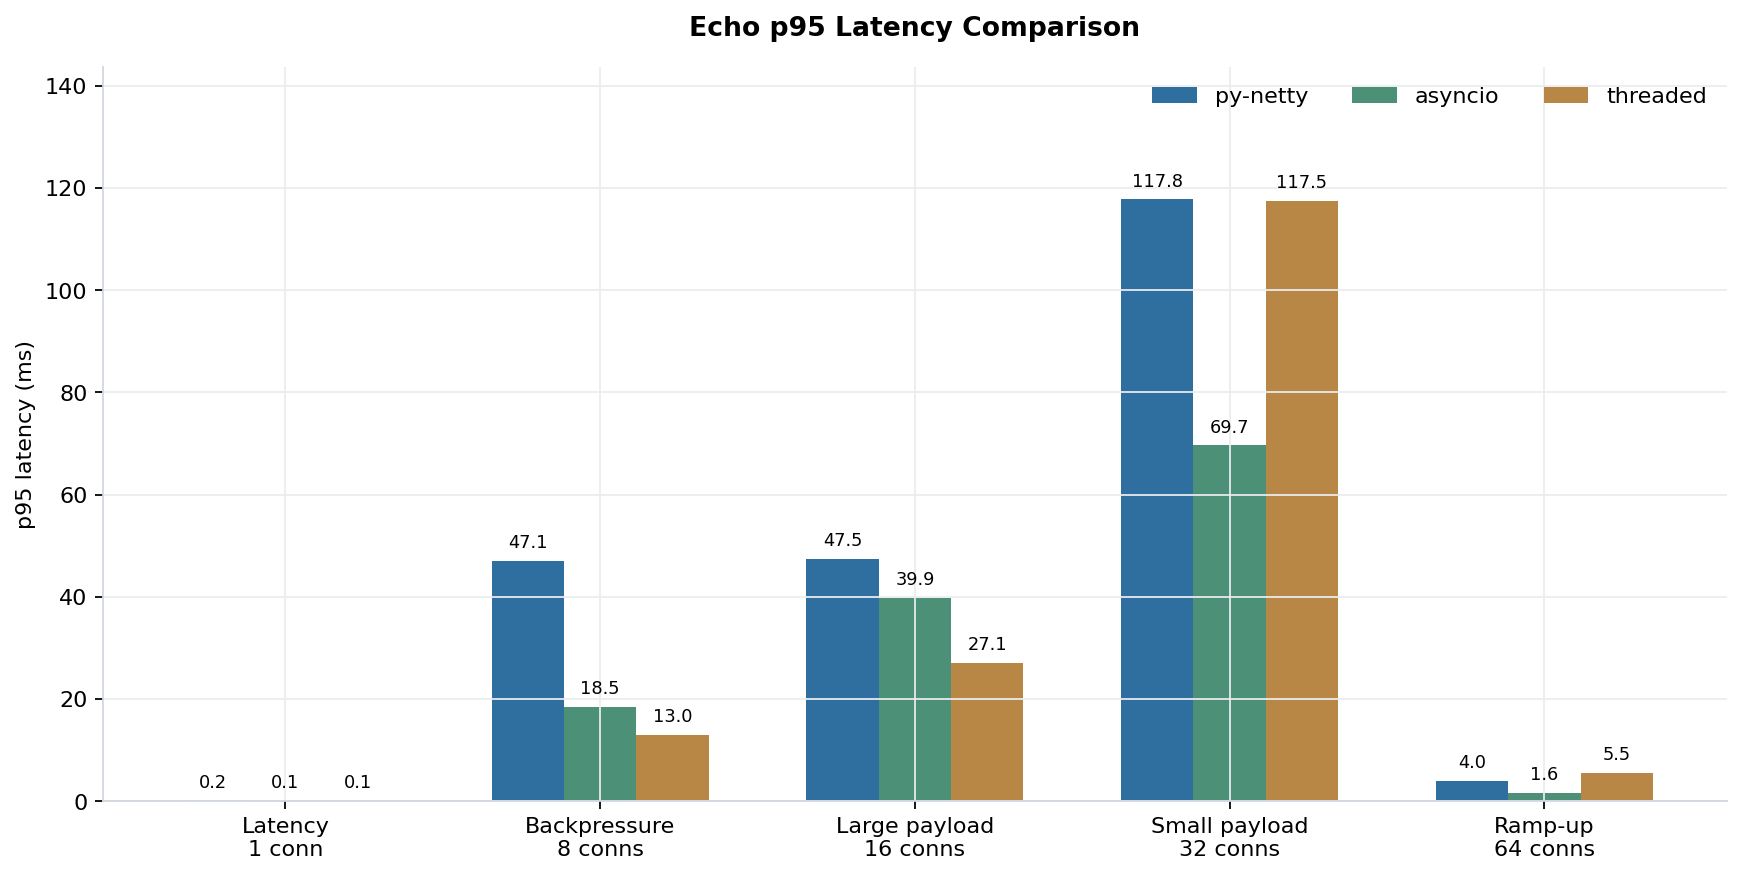
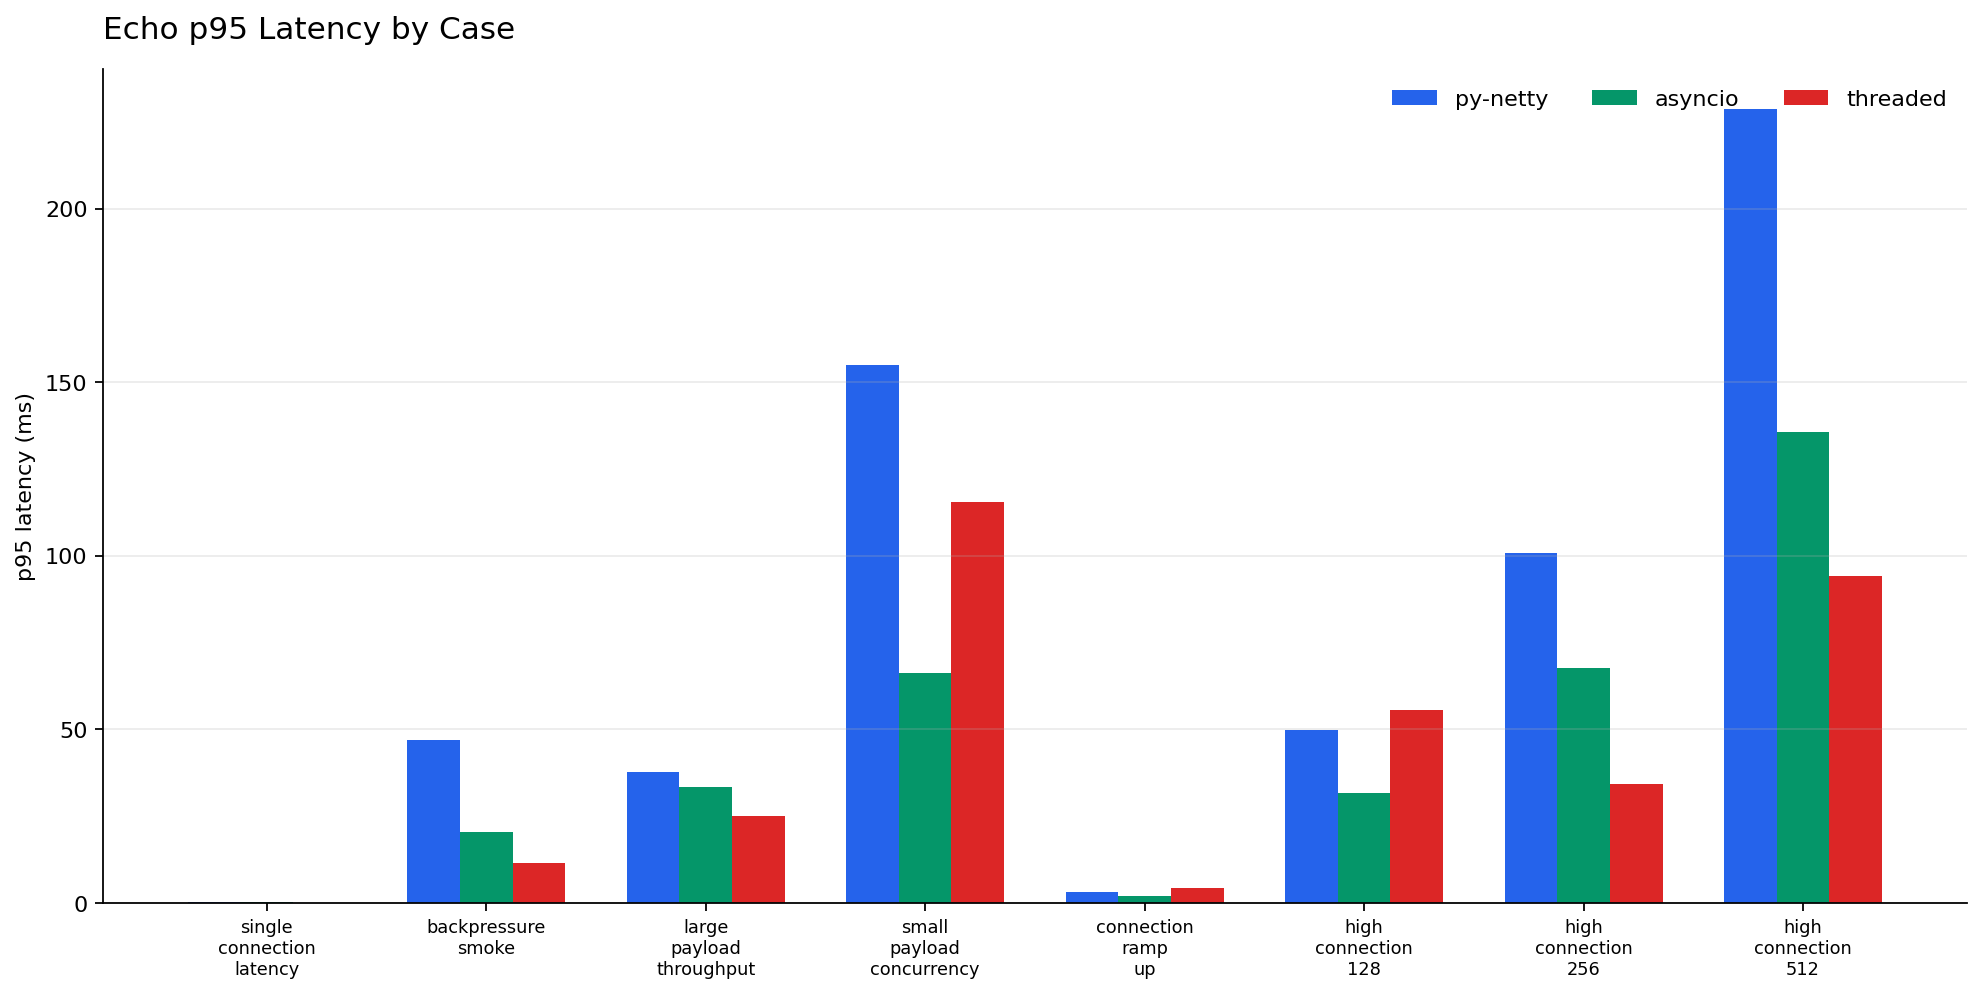
Update benchmark

diff --git a/integration_tests/perf_echo.py b/integration_tests/perf_echo.py
@@ -18,6 +18,9 @@ Usage examples:
     # Run a ramp-up case on an explicit localhost port.
     python integration_tests/perf_echo.py --case connection_ramp_up --port 19080 --connections 128
 
+    # Run higher connection-count cases to find where threaded sockets fall behind.
+    python integration_tests/perf_echo.py --case high_connection_scaling --engine all --timeout 30
+
 Notes:
     The runner starts an in-process localhost echo server for each case and
     engine. Metrics are informational; the process exits non-zero only for
@@ -51,6 +54,7 @@ USAGE_EXAMPLES = """examples:
   python integration_tests/perf_echo.py --case all --engine all
   python integration_tests/perf_echo.py --case large_payload_throughput --connections 32 --messages 64
   python integration_tests/perf_echo.py --case connection_ramp_up --port 19080 --connections 128
+  python integration_tests/perf_echo.py --case high_connection_scaling --engine all --timeout 30
 
 notes:
   Each case starts an in-process localhost echo server for each selected engine.
@@ -123,6 +127,37 @@ DEFAULT_CASES: Dict[str, CaseSpec] = {
         messages=32,
         payload_size=64 * 1024,
     ),
+}
+
+HIGH_CONNECTION_CASES: Dict[str, CaseSpec] = {
+    "high_connection_128": CaseSpec(
+        name="high_connection_128",
+        connections=128,
+        messages=20,
+        payload_size=1024,
+    ),
+    "high_connection_256": CaseSpec(
+        name="high_connection_256",
+        connections=256,
+        messages=20,
+        payload_size=1024,
+    ),
+    "high_connection_512": CaseSpec(
+        name="high_connection_512",
+        connections=512,
+        messages=20,
+        payload_size=1024,
+    ),
+}
+
+CASE_GROUPS = {
+    "all": tuple(DEFAULT_CASES),
+    "high_connection_scaling": tuple(HIGH_CONNECTION_CASES),
+}
+
+ALL_CASES = {
+    **DEFAULT_CASES,
+    **HIGH_CONNECTION_CASES,
 }
 
 
@@ -744,7 +779,7 @@ def _print_result(result: CaseResult) -> None:
 
 
 def _parse_args() -> argparse.Namespace:
-    case_names = ["all"] + list(DEFAULT_CASES)
+    case_names = list(CASE_GROUPS) + list(ALL_CASES)
     engine_names = ["all", "py-netty", "asyncio", "threaded"]
     parser = argparse.ArgumentParser(
         description="Run local echo performance cases.",
@@ -765,7 +800,10 @@ def _parse_args() -> argparse.Namespace:
 
 def main() -> int:
     args = _parse_args()
-    selected = list(DEFAULT_CASES.values()) if args.case == "all" else [DEFAULT_CASES[args.case]]
+    if args.case in CASE_GROUPS:
+        selected = [ALL_CASES[name] for name in CASE_GROUPS[args.case]]
+    else:
+        selected = [ALL_CASES[args.case]]
     engines = ["py-netty", "asyncio", "threaded"] if args.engine == "all" else [args.engine]
     results = []
 

diff --git a/README.md b/README.md
@@ -189,27 +189,60 @@ The following results were collected locally with:
 
 ```bash
 python integration_tests/perf_echo.py --case all --engine all --timeout 20 --json
+python integration_tests/perf_echo.py --case high_connection_scaling --engine all --timeout 30 --json
 ```
 
 Environment: macOS 26.5 arm64, Python 3.12.10.
 
+The default suite covers latency, payload throughput, backpressure, and moderate
+concurrency. It is useful for comparing broad behavior, not for declaring one
+engine universally faster.
+
 | Case | Engine | Connections | Payload | Messages | Throughput | Message rate | p50 latency | p95 latency | Ramp-up |
 | --- | --- | ---: | ---: | ---: | ---: | ---: | ---: | ---: | ---: |
-| `single_connection_latency` | `py-netty` | 1 | 64 B | 200 | 0.45 MiB/s | 7,359 msg/s | 0.12 ms | 0.20 ms | 0.46 ms |
-| `single_connection_latency` | `asyncio` | 1 | 64 B | 200 | 0.70 MiB/s | 11,516 msg/s | 0.07 ms | 0.13 ms | 0.35 ms |
-| `single_connection_latency` | `threaded` | 1 | 64 B | 200 | 1.43 MiB/s | 23,511 msg/s | 0.04 ms | 0.05 ms | 1.38 ms |
-| `backpressure_smoke` | `py-netty` | 8 | 64 KiB | 256 | 306.21 MiB/s | 4,899 msg/s | 42.11 ms | 47.05 ms | 6.89 ms |
-| `backpressure_smoke` | `asyncio` | 8 | 64 KiB | 256 | 817.40 MiB/s | 13,078 msg/s | 14.08 ms | 18.48 ms | 0.84 ms |
-| `backpressure_smoke` | `threaded` | 8 | 64 KiB | 256 | 812.25 MiB/s | 12,996 msg/s | 9.83 ms | 13.02 ms | 0.80 ms |
-| `large_payload_throughput` | `py-netty` | 16 | 64 KiB | 512 | 620.71 MiB/s | 9,931 msg/s | 37.45 ms | 47.49 ms | 3.01 ms |
-| `large_payload_throughput` | `asyncio` | 16 | 64 KiB | 512 | 751.79 MiB/s | 12,029 msg/s | 31.17 ms | 39.86 ms | 1.45 ms |
-| `large_payload_throughput` | `threaded` | 16 | 64 KiB | 512 | 785.02 MiB/s | 12,560 msg/s | 19.12 ms | 27.11 ms | 1.64 ms |
-| `small_payload_concurrency` | `py-netty` | 32 | 1 KiB | 6,400 | 49.05 MiB/s | 50,230 msg/s | 110.78 ms | 117.80 ms | 14.97 ms |
-| `small_payload_concurrency` | `asyncio` | 32 | 1 KiB | 6,400 | 77.80 MiB/s | 79,665 msg/s | 43.25 ms | 69.66 ms | 2.78 ms |
-| `small_payload_concurrency` | `threaded` | 32 | 1 KiB | 6,400 | 35.56 MiB/s | 36,416 msg/s | 88.69 ms | 117.45 ms | 2.39 ms |
-| `connection_ramp_up` | `py-netty` | 64 | 64 B | 64 | 0.93 MiB/s | 15,272 msg/s | 3.18 ms | 3.95 ms | 12.93 ms |
-| `connection_ramp_up` | `asyncio` | 64 | 64 B | 64 | 1.28 MiB/s | 20,967 msg/s | 1.44 ms | 1.60 ms | 5.02 ms |
-| `connection_ramp_up` | `threaded` | 64 | 64 B | 64 | 0.59 MiB/s | 9,691 msg/s | 2.71 ms | 5.48 ms | 4.18 ms |
+| `single_connection_latency` | `py-netty` | 1 | 64 B | 200 | 0.53 MiB/s | 8,754 msg/s | 0.10 ms | 0.18 ms | 0.54 ms |
+| `single_connection_latency` | `asyncio` | 1 | 64 B | 200 | 0.61 MiB/s | 9,968 msg/s | 0.09 ms | 0.13 ms | 0.36 ms |
+| `single_connection_latency` | `threaded` | 1 | 64 B | 200 | 1.48 MiB/s | 24,198 msg/s | 0.04 ms | 0.05 ms | 1.59 ms |
+| `backpressure_smoke` | `py-netty` | 8 | 64 KiB | 256 | 300.67 MiB/s | 4,811 msg/s | 40.49 ms | 47.03 ms | 6.19 ms |
+| `backpressure_smoke` | `asyncio` | 8 | 64 KiB | 256 | 732.10 MiB/s | 11,714 msg/s | 15.62 ms | 20.29 ms | 1.02 ms |
+| `backpressure_smoke` | `threaded` | 8 | 64 KiB | 256 | 823.77 MiB/s | 13,180 msg/s | 8.97 ms | 11.51 ms | 0.90 ms |
+| `large_payload_throughput` | `py-netty` | 16 | 64 KiB | 512 | 787.83 MiB/s | 12,605 msg/s | 30.47 ms | 37.78 ms | 2.78 ms |
+| `large_payload_throughput` | `asyncio` | 16 | 64 KiB | 512 | 896.81 MiB/s | 14,349 msg/s | 25.72 ms | 33.34 ms | 1.27 ms |
+| `large_payload_throughput` | `threaded` | 16 | 64 KiB | 512 | 799.81 MiB/s | 12,797 msg/s | 18.75 ms | 25.12 ms | 1.32 ms |
+| `small_payload_concurrency` | `py-netty` | 32 | 1 KiB | 6,400 | 38.20 MiB/s | 39,121 msg/s | 138.20 ms | 154.94 ms | 15.80 ms |
+| `small_payload_concurrency` | `asyncio` | 32 | 1 KiB | 6,400 | 81.92 MiB/s | 83,889 msg/s | 40.98 ms | 66.23 ms | 2.43 ms |
+| `small_payload_concurrency` | `threaded` | 32 | 1 KiB | 6,400 | 36.10 MiB/s | 36,968 msg/s | 87.09 ms | 115.36 ms | 2.63 ms |
+| `connection_ramp_up` | `py-netty` | 64 | 64 B | 64 | 1.06 MiB/s | 17,332 msg/s | 2.64 ms | 3.24 ms | 20.28 ms |
+| `connection_ramp_up` | `asyncio` | 64 | 64 B | 64 | 1.00 MiB/s | 16,315 msg/s | 1.88 ms | 2.05 ms | 7.61 ms |
+| `connection_ramp_up` | `threaded` | 64 | 64 B | 64 | 0.58 MiB/s | 9,545 msg/s | 2.49 ms | 4.19 ms | 5.15 ms |
+
+### High Connection Scaling
+
+The high connection-count suite stresses 128, 256, and 512 concurrent localhost
+connections with 20 messages per connection and 1 KiB payloads. It highlights
+where py-netty's event-loop model pulls ahead of the one-thread-per-connection
+`threaded` implementation.
+
+In this run, py-netty kept a much steadier message rate as connection count
+increased, while the threaded implementation degraded more quickly. Compared
+with threaded sockets, py-netty delivered 24% higher message rate at 128
+connections, 48% higher at 256 connections, and 57% higher at 512 connections.
+This makes the 256-connection case the clearest inflection point for the
+threaded approach in this local test. `asyncio` is included as a standard
+library event-loop baseline and remained the fastest engine by raw message rate
+in these high-connection cases.
+
+| Case | Engine | Connections | Payload | Messages | Throughput | Message rate | p50 latency | p95 latency | Ramp-up |
+| --- | --- | ---: | ---: | ---: | ---: | ---: | ---: | ---: | ---: |
+| `high_connection_128` | `py-netty` | 128 | 1 KiB | 2,560 | 45.45 MiB/s | 46,537 msg/s | 49.45 ms | 49.86 ms | 28.65 ms |
+| `high_connection_128` | `asyncio` | 128 | 1 KiB | 2,560 | 65.19 MiB/s | 66,753 msg/s | 20.37 ms | 31.71 ms | 35.85 ms |
+| `high_connection_128` | `threaded` | 128 | 1 KiB | 2,560 | 36.56 MiB/s | 37,442 msg/s | 25.44 ms | 55.51 ms | 9.38 ms |
+| `high_connection_256` | `py-netty` | 256 | 1 KiB | 5,120 | 45.72 MiB/s | 46,817 msg/s | 97.92 ms | 100.84 ms | 75.80 ms |
+| `high_connection_256` | `asyncio` | 256 | 1 KiB | 5,120 | 60.68 MiB/s | 62,134 msg/s | 42.07 ms | 67.71 ms | 118.30 ms |
+| `high_connection_256` | `threaded` | 256 | 1 KiB | 5,120 | 30.79 MiB/s | 31,534 msg/s | 25.04 ms | 34.16 ms | 47.32 ms |
+| `high_connection_512` | `py-netty` | 512 | 1 KiB | 10,240 | 40.85 MiB/s | 41,831 msg/s | 222.10 ms | 228.65 ms | 83.80 ms |
+| `high_connection_512` | `asyncio` | 512 | 1 KiB | 10,240 | 60.88 MiB/s | 62,346 msg/s | 86.16 ms | 135.54 ms | 64.47 ms |
+| `high_connection_512` | `threaded` | 512 | 1 KiB | 10,240 | 25.98 MiB/s | 26,606 msg/s | 53.93 ms | 94.08 ms | 121.09 ms |
 
 Metrics are informational and environment-dependent. The comparison uses three
 local implementations: `py-netty`, Python `asyncio`, and blocking sockets with

diff --git a/.codex/skills/perf-echo/SKILL.md b/.codex/skills/perf-echo/SKILL.md
@@ -22,6 +22,12 @@ Primary command:
 python integration_tests/perf_echo.py --case all --engine all --timeout 20 --json
 ```
 
+High connection-count scaling command:
+
+```bash
+python integration_tests/perf_echo.py --case high_connection_scaling --engine all --timeout 30 --json
+```
+
 Useful smoke command:
 
 ```bash
@@ -42,7 +48,16 @@ Supported cases:
 - `large_payload_throughput`
 - `small_payload_concurrency`
 - `connection_ramp_up`
+- `high_connection_128`
+- `high_connection_256`
+- `high_connection_512`
+- `high_connection_scaling`
 - `all`
+
+`all` runs the default benchmark suite only. `high_connection_scaling` is a
+separate group for heavier local runs that stress 128, 256, and 512 concurrent
+connections to identify where the one-thread-per-connection `threaded` engine
+starts losing ground.
 
 ## Test Principle
 
@@ -73,6 +88,12 @@ raw data:
 
 ```bash
 python integration_tests/perf_echo.py --case all --engine all --timeout 20 --json > /tmp/py-netty-perf-compare.json
+```
+
+For high connection-count comparisons:
+
+```bash
+python integration_tests/perf_echo.py --case high_connection_scaling --engine all --timeout 30 --json > /tmp/py-netty-high-connections.json
 ```
 
 Before using the data, confirm every result has:
@@ -131,6 +152,14 @@ Keep the table ordered by connection count:
 4. `small_payload_concurrency`
 5. `connection_ramp_up`
 
+When documenting high connection-count scaling, keep those rows separate from
+the default benchmark table unless the user asks to replace the main benchmark
+data. Order them by connection count:
+
+1. `high_connection_128`
+2. `high_connection_256`
+3. `high_connection_512`
+
 For each case, list engines in this order:
 
 1. `py-netty`
@@ -144,6 +173,7 @@ Run these checks after modifying the benchmark runner, charts, or README:
 ```bash
 python integration_tests/perf_echo.py --help
 python integration_tests/perf_echo.py --case single_connection_latency --messages 3 --payload-size 32 --timeout 5 --engine all
+python integration_tests/perf_echo.py --case high_connection_scaling --engine threaded --connections 2 --messages 1 --payload-size 64 --timeout 5 --json
 pytest -q
 ```
 
@@ -170,3 +200,6 @@ PY
   claims.
 - If a high-connection case fails with `Too many open files`, lower
   `--connections` or raise the OS file descriptor limit before rerunning.
+- Do not run the full `high_connection_scaling` group as a casual smoke check;
+  use overrides such as `--connections 2 --messages 1` when validating CLI
+  behavior only.

diff --git a/integration_tests/perf_echo.md b/integration_tests/perf_echo.md
@@ -90,6 +90,18 @@ Run a ramp-up case on an explicit local port:
 python integration_tests/perf_echo.py --case connection_ramp_up --port 19080 --connections 128
 ```
 
+Run the high connection-count scaling cases:
+
+```bash
+python integration_tests/perf_echo.py --case high_connection_scaling --engine all --timeout 30 --json
+```
+
+This group runs 128, 256, and 512 concurrent connections with 20 messages per
+connection and 1 KiB payloads. It is intended to show where the one-thread-per-connection
+`threaded` implementation starts losing ground to event-loop based
+implementations. The 512-connection case may require a higher file descriptor
+limit, for example `ulimit -n 4096`, before running the command.
+
 ## Pass And Fail Semantics
 
 The process exits with status `0` when all expected echoes are received and
